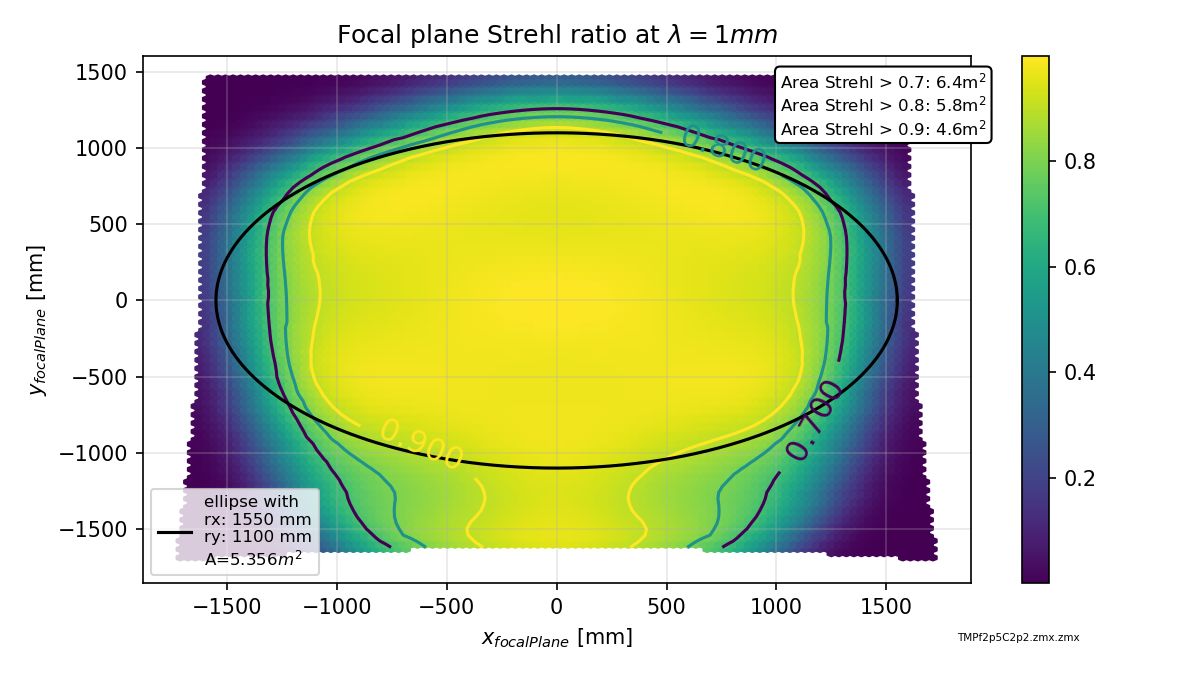
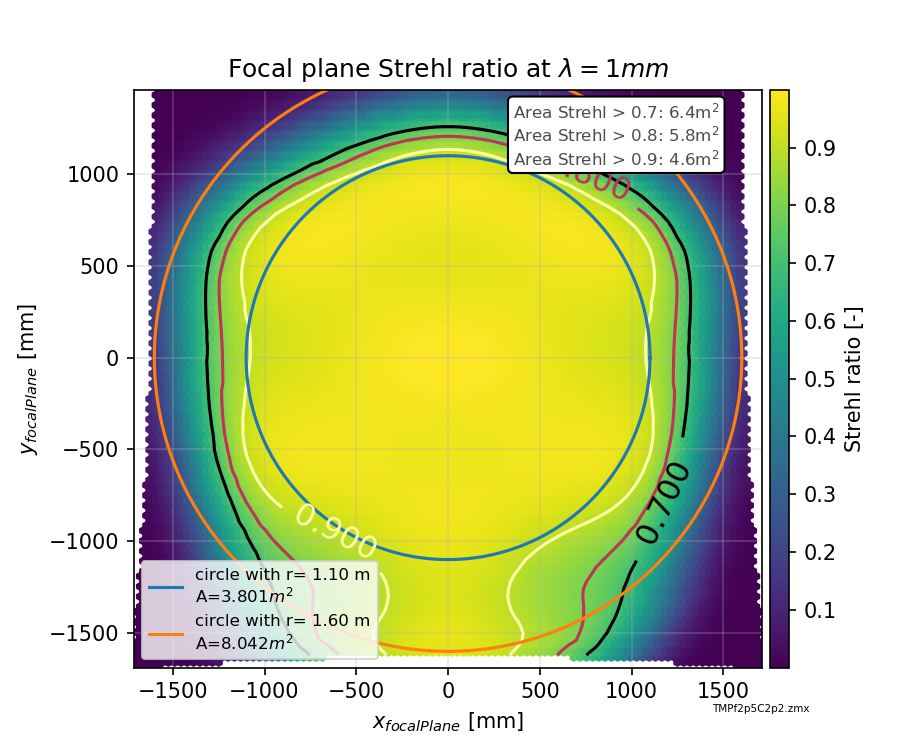
aspect ratios changed in strehls

diff --git a/ZOS_API_scripts/focal_plane_strehl_ratios.py b/ZOS_API_scripts/focal_plane_strehl_ratios.py
@@ -6,12 +6,13 @@ import scipy.interpolate as interp
 from scipy import stats
 import os
 import sys
+from mpl_toolkits.axes_grid1 import make_axes_locatable
 
 s = pd.read_hdf('ray_db.hdf', 'system_variables')
 center_field_deg = [s.center_field_x, s.center_field_y]
 
-overlay_ellipse = True
-ry, rx = 2200/2, 3100/2 # from meeting notes 20200511
+overlay_circle = True
+rs = [2200/2, 3200/2] # radii for circles overlay
 
 
 def get_field_positions_and_strehl_map_fname():
@@ -126,7 +127,7 @@ def interpolate_grid(df_pos):
 
 
 def plotArea_focal_plane(x_mm, y_mm, z_strehl, thresholds=[0.7, 0.8, 0.9],
-             overlay_ellipse=False, rxry = [1, 1]):
+             overlay_circle=False, rs = [2000, 3000]):
     sel = np.logical_not(np.isnan(x_mm))
     x, y, z = x_mm[sel], y_mm[sel], z_strehl[sel]
     res = stats.binned_statistic_2d(x, y, z, statistic='mean',
@@ -148,47 +149,54 @@ def plotArea_focal_plane(x_mm, y_mm, z_strehl, thresholds=[0.7, 0.8, 0.9],
                                                        areas[j]/1e6))
 
     #now make the plot
-    fig, ax = plt.subplots(figsize=[8,4.5])
+    fig, ax = plt.subplots(figsize=[6,5])
     hb = ax.hexbin(x_mm, y_mm, z_strehl)
-    plt.colorbar(hb, ax=ax)
-    cs = ax.contour(x_bin, y_bin, res.statistic.T, thresholds )
 
-    if overlay_ellipse:
-        assert len(rxry) == 2
-        rx, ry = rxry
+    divider = make_axes_locatable(ax)
+    cax = divider.append_axes("right", size="3%", pad=0.05)
+
+    cbar = plt.colorbar(hb, cax=cax, ticks=np.arange(0, 1.1, 0.1))
+    cbar.set_label('Strehl ratio [-]')
+
+    cs = ax.contour(x_bin, y_bin, res.statistic.T, thresholds,
+                    cmap='inferno' )
+
+    if overlay_circle:
         theta = np.linspace(0, 2*np.pi, 1000)
-        x = rx*np.cos(theta)
-        y = ry*np.sin(theta)
-        ellipse_area = np.pi * rx * ry/1e6 # in m^2
-        plt.plot(x, y, 
-                 label='ellipse with\nrx: %1.0f mm\nry: %1.0f mm\nA=%1.3f$m^2$'% (rx, ry, ellipse_area),
-                 color='black')
-        plt.legend(loc='lower left', fontsize=8)
+        for j, r in enumerate(rs):
+            x = r * np.cos(theta)
+            y = r * np.sin(theta)
+            circle_area = np.pi * r**2/1e6 # in m^2
+            ax.plot(x, y, 
+                 label='circle with r= %1.2f m\nA=%1.3f$m^2$'% (r/1000, circle_area),
+                 color='C%i' %j)
+        ax.legend(loc='lower left', fontsize=8)
     ax.clabel(cs, inline=1, fontsize=15)
-
-    plt.xlabel('$x_{focalPlane}$ [mm]')
-    plt.ylabel('$y_{focalPlane}$ [mm]')
+    ax.set_aspect('equal')
+    
+    ax.set_xlabel('$x_{focalPlane}$ [mm]')
+    ax.set_ylabel('$y_{focalPlane}$ [mm]')
 
     x_min, x_max = np.min(x_mm[sel]), np.max(x_mm[sel])
     y_min, y_max = np.min(y_mm[sel]), np.max(y_mm[sel])
 
-    plt.xlim([1.1*x_min, 1.1*x_max])
-    plt.ylim([1.1*y_min, 1.1*y_max])
+    ax.set_xlim([x_min, x_max])
+    ax.set_ylim([y_min, y_max])
 
-    plt.title('Focal plane Strehl ratio at $\lambda=1mm$')
+    ax.set_title('Focal plane Strehl ratio at $\lambda=1mm$')
 #    plt.colorbar()
-    plt.grid(alpha=0.3)
+    ax.grid(alpha=0.3)
 
     #bubble
     texts = ['Area Strehl > %1.1f: %1.1fm$^2$' %(thresholds[j], areas[j]/1e6)
              for j in range(len(thresholds))]
     textstr = '\n'.join(texts)
     props = dict(boxstyle='round', facecolor='white', alpha=1)
-    plt.figtext(0.65, 0.8, textstr, bbox=props, fontsize=8)
-    plt.figtext(0.9, 0.05, projectName + '.zmx', fontsize=5, ha='right')
+    plt.figtext(0.57, 0.78, textstr, bbox=props, fontsize=8, alpha=0.7)
+    plt.figtext(0.9, 0.05, projectName, fontsize=5, ha='right')
     if not os.path.exists('./strehls'):
         os.mkdir('./strehls')
-    fig.tight_layout()
+#    fig.tight_layout()
     plt.savefig('./strehls/focal_plane_strehls.png', dpi=150)
     plt.close()
     
@@ -219,24 +227,31 @@ def plot_img_qual_sky(db, thresholds=[0.7, 0.8, 0.9]):
                                                          areas[j]))
 
     #now make the plot
-    fig, ax = plt.subplots(figsize=[8,4.5])
+    fig, ax = plt.subplots(figsize=[6,5])
+
     hb = ax.hexbin(x, y, z)
-    plt.colorbar(hb, ax=ax)
+
+    divider = make_axes_locatable(ax)
+    cax = divider.append_axes("right", size="3%", pad=0.05)
+
+    cbar = plt.colorbar(hb, cax=cax, ticks=np.arange(0, 1.1, 0.1))
+    cbar.set_label('Strehl ratio [-]')
+
     cs = ax.contour(x_bin, y_bin, res.statistic.T, thresholds,
                     cmap='inferno' )
     ax.clabel(cs, inline=1, fontsize=15)
 
-    plt.xlabel('$x_{sky}$ [deg]')
-    plt.ylabel('$y_{sky}$ [deg]')
+    ax.set_xlabel('$x_{sky}$ [deg]')
+    ax.set_ylabel('$y_{sky}$ [deg]')
 
-    x_min, x_max = np.min(x), np.max(x)
-    y_min, y_max = np.min(y), np.max(y)
+#    x_min, x_max = np.min(x), np.max(x)
+#    y_min, y_max = np.min(y), np.max(y)
 
-    plt.xlim([1.1*x_min, 1.1*x_max])
-    plt.ylim([1.1*y_min, 1.1*y_max])
+#    plt.xlim([1.1*x_min, 1.1*x_max])
+#    plt.ylim([1.1*y_min, 1.1*y_max])
 
-    plt.title('Sky Strehl ratio at $\lambda=1mm$')
-    plt.grid(alpha=0.3)
+    ax.set_title('Sky Strehl ratio at $\lambda=1mm$')
+    ax.grid(alpha=0.3)
 
 #    bubble
     texts = ['$\Omega_{Strehl > %1.1f}$: %1.1f deg$^2$' %(thresholds[j], 
@@ -244,7 +259,7 @@ def plot_img_qual_sky(db, thresholds=[0.7, 0.8, 0.9]):
              for j in range(len(thresholds))]
     textstr = '\n'.join(texts)
     props = dict(boxstyle='round', facecolor='white', alpha=0.7)
-    plt.figtext(0.68, 0.83, textstr, bbox=props, fontsize=8)
+    plt.figtext(0.63, 0.83, textstr, bbox=props, fontsize=8)
     plt.figtext(0.9, 0.05, projectName + '.zmx', fontsize=5, ha='right')
     if not os.path.exists('./strehls'):
         os.mkdir('./strehls')
@@ -265,7 +280,7 @@ y_mm = v(positions_to_eval)
 
 
 plotArea_focal_plane(x_mm, y_mm, db.df_strh.z_strehl.values, 
-                     overlay_ellipse=overlay_ellipse, 
-                     rxry=[rx, ry])
+                     overlay_circle=overlay_circle, 
+                     rs=rs)
 
 plot_img_qual_sky(db)
